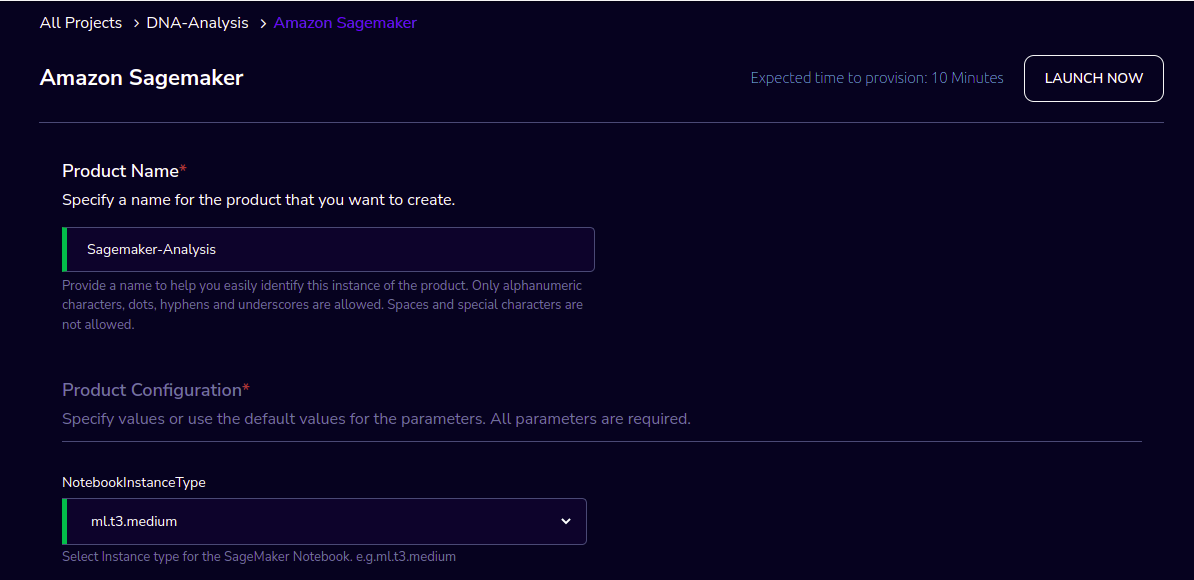
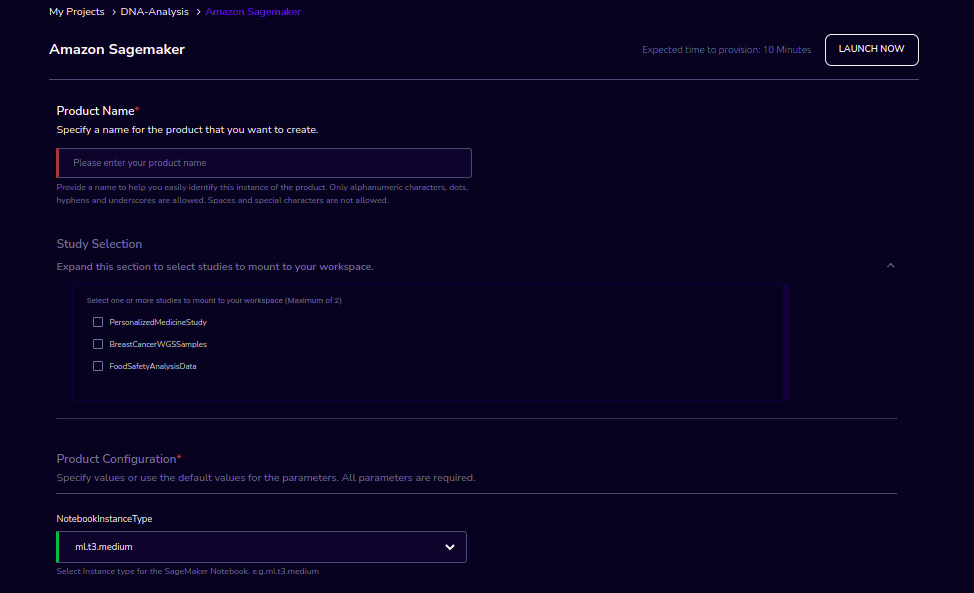
Mount Internal Study to the Sagemaker-1.17.0

diff --git a/source/sagemaker.rst b/source/sagemaker.rst
@@ -16,6 +16,8 @@ Parameters
      - Details
    * - Product Name
      - Provide a name to help you easily identify this instance of the product. Only alphanumeric characters, dots, hyphens and underscores are allowed. Spaces and special characters are not allowed. Eg: MedicalResearch
+   * - Study Selection
+     - Expand the section to select studies to mount to your workspace.Select one or more studies to mount to your workspace from the dropdown list(Maximum of 2)
    * - InstanceType
      - Choose instance type in the drop-down list. Eg: ml.t2.medium
 
@@ -33,10 +35,14 @@ Estimated time to provision -  15 minutes
 Steps to connect 
 -----------------
 
-1. Click on the “Link” button under the “Connect” list on the right side of the page. This will open the sageMaker notebook in a new browser tab. 
+1. Click on the “Open Notebook” button under the “Connect” list on the right side of the page. This will open the sageMaker notebook in a new browser tab. Through this sagemaker notebook you will be able to use the studies, that are linked to the project and mounted during launch. Study which are selected will appear under the $HOME/studies folder.
 2. You can de-provision the product through the “Terminate” option.
 
 .. image:: images/Sagemaker_ProjectDetails_Action.png
+
+.. image:: images/InternalStudyMountingToSagemaker1.png
+
+.. image:: images/InternalStudyMountingToSagemaker2.png
 
 Other considerations
 ---------------------

diff --git a/source/Features.rst b/source/Features.rst
@@ -1190,7 +1190,7 @@ Fill the following details
    * - Study Scope   
      - <Currently only Project level scope is allowed. All the  project members can see the study details. But if any user who is not part of the project , will not be able to see the study details.>
    * - Projects
-     - <Choose the projects to which the study needs to be assigned to. Linux based workspaces in the selected projects will automatically mount this study. Currently only the projects selected at creation of the study will be able to access the study. By default it shows no project is added to the account. Once You select the account then all the  projects which are linked to the selected account settings will  be listed here.>
+     - <Choose the projects to which the study needs to be assigned to. Linux based workspaces and Sagemaker instances in the selected projects will automatically mount this study. Currently only the projects selected at creation of the study will be able to access the study. By default it shows no project is added to the account. Once You select the account then all the  projects which are linked to the selected account settings will  be listed here.>
   
 .. image:: images/Studies_InternalStudies_AccountDetails.png
 
